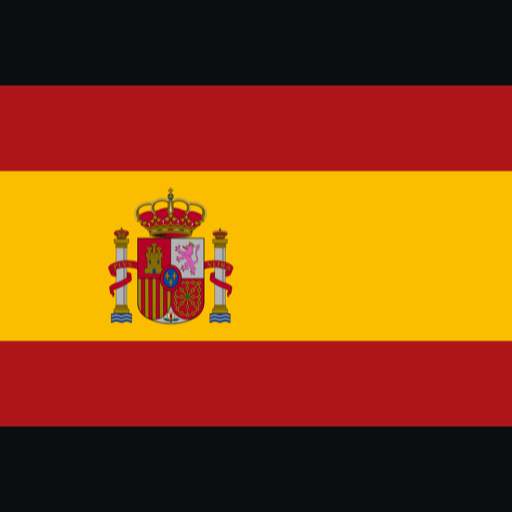
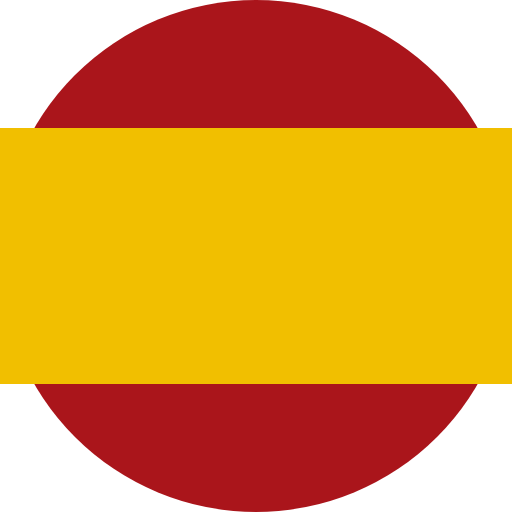
A flag drawn for 16px, and the assets for the X account
The favicon is the flag drawn in SVG -- three stripes, no coat of arms, 3px
corners -- exported to 16/32/48 and 180/512. At tab size the coat of arms is a
three-pixel brown smudge on the yellow band; what has to read at that size is
three clean stripes. The header keeps the photo.

`evidencia/x/` carries the avatar, the banner and the copy for the account: bio
with three variants, a pinned tweet in three versions, all measured with X's own
counting rule, all in neutral Spanish, and no personal handles anywhere. Which
avatar -- the flag or the KH monogram -- is left as the owner's choice, with
both rendered so the decision costs nothing.

Also drops `Claude outputs/`, a scratch directory that had been tracked.

diff --git a/src/app/layout.tsx b/src/app/layout.tsx
@@ -118,12 +118,20 @@ export const metadata: Metadata = {
     **El ícono es la bandera, la misma imagen que el wordmark.**
 
     Así la pestaña y el encabezado son lo mismo y no dos representaciones de la
-    misma idea — y es literalmente la misma: las cuatro medidas se generaron de
-    `public/marca/espana.png`, que ya usaba el encabezado. Comprobado por
-    checksum contra `survives.fun` (`app/public/flags/spain.png`): los tres
-    archivos son byte por byte el mismo, así que no hay una segunda copia que
-    pueda divergir. Escaladas y centradas sobre el fondo del sitio para que el
-    mosaico sea cuadrado — una bandera 3:2 en una pestaña se ve como una franja.
+    misma idea, pero **no la misma imagen**, y la diferencia es el tamaño al que
+    se mira cada una.
+
+    El encabezado lleva la foto (`public/marca/espana.png`), que a 40 px se ve
+    como lo que es. La pestaña lleva un dibujo: `public/brand/flag.svg`, tres
+    franjas —rojo un cuarto, amarillo la mitad, rojo un cuarto— **sin escudo**.
+    A 16 px el escudo es una mancha marrón de tres píxeles sobre la franja
+    amarilla, y una foto redimensionada a 16 es una papilla de la que no se lee
+    ninguna franja. Lo que tiene que leerse a ese tamaño son tres franjas
+    limpias, y para eso hay que dibujarlas.
+
+    Los PNG se rasterizan del SVG con Chromium —el mismo motor que va a pintar
+    el favicon— porque `sips` no lee SVG. El radio se escala desde 3 px sobre
+    32, que es la medida canónica de un favicon.
 
     **Origen y licencia: sin documentar.** `survives.fun` no dice de dónde salió
     ese archivo ni bajo qué licencia; lo verifiqué buscando en sus documentos y
@@ -134,8 +142,10 @@ export const metadata: Metadata = {
   */
   icons: {
     icon: [
+      { url: "/brand/flag-48.png", sizes: "48x48", type: "image/png" },
       { url: "/brand/flag-32.png", sizes: "32x32", type: "image/png" },
       { url: "/brand/flag-16.png", sizes: "16x16", type: "image/png" },
+      { url: "/brand/flag.svg", type: "image/svg+xml" },
     ],
     apple: [{ url: "/brand/flag-180.png", sizes: "180x180", type: "image/png" }],
   },
@@ -330,10 +340,15 @@ export default function RootLayout({
               en una línea, sin competir con nada. La página misma se mudó de
               `/trade` cuando esa ruta se eliminó (`DECISIONES.md`).
             */}
-            <p className="footnote">
-              <Link className="panel-link" href="/privacidad">
-                Privacidad
-              </Link>
+            {/*
+              **Un enlace del pie, no un rótulo.**
+
+              Heredaba `.panel-link`, que va en versalitas, y en `/privacidad`
+              quedaba un `PRIVACIDAD` suelto abajo a la izquierda que parecía un
+              encabezado roto — se vio en el gate. Es un enlace y se ve como uno.
+            */}
+            <p className="footnote footnote-links">
+              <Link href="/privacidad">Privacidad</Link>
             </p>
 
             {/*

diff --git a/evidencia/x/copy.md b/evidencia/x/copy.md
@@ -1,0 +1,93 @@
+# Cuenta de X de KOLScan Hispano
+
+Preparado el 2026-09-06. **Sin handles personales en ningún archivo de esta
+carpeta**, ni en las imágenes ni en el texto: la cuenta habla como producto.
+
+## Imágenes
+
+| Archivo | Uso | Nota |
+|---|---|---|
+| `avatar-400.png` | Avatar, 400×400 | La bandera **dibujada**, no la foto de `public/marca/espana.png`: a 48 px del timeline una foto se ensucia y las tres franjas no. Es el mismo dibujo del favicon, que es lo que hace que la pestaña y la cuenta se reconozcan como la misma cosa. Sobrevive el recorte circular de X (las esquinas del cuadrado quedan dentro del círculo) |
+| `avatar-400-kh.png` | Avatar, alternativa | El monograma `KH` con la franja de bandera debajo. Se lee mejor a 24 px —el tamaño de una respuesta en un hilo— y peor como marca de país |
+| `banner-1500x500.png` | Banner | Wordmark en blanco sobre `#111315`, el fondo del sitio. Las tres columnas de chain (SOL verde, ETH azul, BNB amarillo) van al 16% de opacidad, como detalle. Franja de bandera de 6 px al pie |
+
+**Decisión abierta, tuya**: cuál de los dos avatares. La bandera dice de dónde es
+antes de que nadie lea el nombre; el monograma se lee a cualquier tamaño. Están
+los dos hechos para que la elección no cueste otra tanda.
+
+Una nota sobre el banner: X monta el avatar sobre su esquina inferior izquierda y
+recorta arriba y abajo en móvil. El wordmark está centrado, que es la zona que
+sobrevive los dos recortes.
+
+## Bio
+
+La preferida, **122 caracteres**:
+
+> Ranking de traders hispanos de memecoins. PnL realizado on-chain, Solana ·
+> Robinhood · BNB. Tus wallets nunca se publican.
+
+Tres variantes, todas ≤160:
+
+1. **Más corta, 115.** Deja sitio al link y se lee de un vistazo en móvil.
+   > Ranking de traders hispanos de memecoins. PnL realizado on-chain en Solana,
+   > Robinhood y BNB. Tus wallets, privadas.
+
+2. **La que promete menos, 129.** No dice «nunca», que es una palabra difícil de
+   sostener; dice qué hace el producto y deja la promesa para la página.
+   > Clasificación de traders hispanos por PnL realizado. Datos on-chain de
+   > Solana, Robinhood y BNB. Tú eliges qué wallet se muestra.
+
+3. **La que invita, 134.** Sirve mejor si la cuenta va a pedir registros.
+   > El ranking de los traders hispanos de memecoins. PnL realizado, on-chain,
+   > sin autoreportes. Regístrate firmando: no pagas nada. 🇪🇸🌎
+
+**Recuento**: medido con el criterio de X, que cuenta cada emoji de bandera como
+dos caracteres — por eso la variante 3 mide 134 y no 131. Las cuatro están
+holgadas: la más larga usa 134 de 160.
+
+**Español neutro, no rioplatense**, igual que la copia del sitio (`CLAUDE.md`):
+«tú eliges», no «vos elegís»; «regístrate», no «registrate». La primera versión
+de este archivo se escribió en rioplatense y se corrigió.
+
+## Tweet fijado
+
+Tres versiones. La 1 es la recomendada: dice qué es, qué no es, y qué hacer.
+
+**1 — Directa**
+
+> Ya está en línea KOLScan Hispano: el ranking de los traders hispanos de memecoins.
+>
+> · PnL realizado, calculado on-chain. Nada de autoreportes.
+> · Solana, Robinhood y BNB.
+> · Tus wallets no se publican, salvo que elijas mostrarlas.
+>
+> Entra y mira quién va ganando 👇
+> kolscanhispano.fun
+
+**2 — Por el problema**
+
+> Todo el mundo tuitea sus ganancias. Nadie tuitea las pérdidas.
+>
+> KOLScan Hispano lee la cadena y arma el ranking con el PnL realizado: lo que
+> cerró de verdad, no lo que dijo que cerró.
+>
+> Solana · Robinhood · BNB. Ya está online.
+> kolscanhispano.fun
+
+**3 — Por la privacidad**
+
+> Un ranking de traders no debería obligarte a mostrar tu wallet.
+>
+> En KOLScan Hispano firmas un mensaje —nunca una transacción— y decides wallet
+> por wallet cuál se ve. Las que no eliges no aparecen: ni la dirección, ni sus
+> primeros caracteres.
+>
+> kolscanhispano.fun
+
+## Antes de publicar
+
+El sitio está con `noindex` a propósito hasta el lanzamiento
+(`docs/lanzamiento.md`). Un tweet fijado que apunte al dominio **antes** de
+sacarlo manda gente a una página que los buscadores no van a indexar y que
+todavía puede cambiar. El orden es: quitar el `noindex`, `npm run prelaunch` en
+verde, y sólo entonces fijar el tweet.
